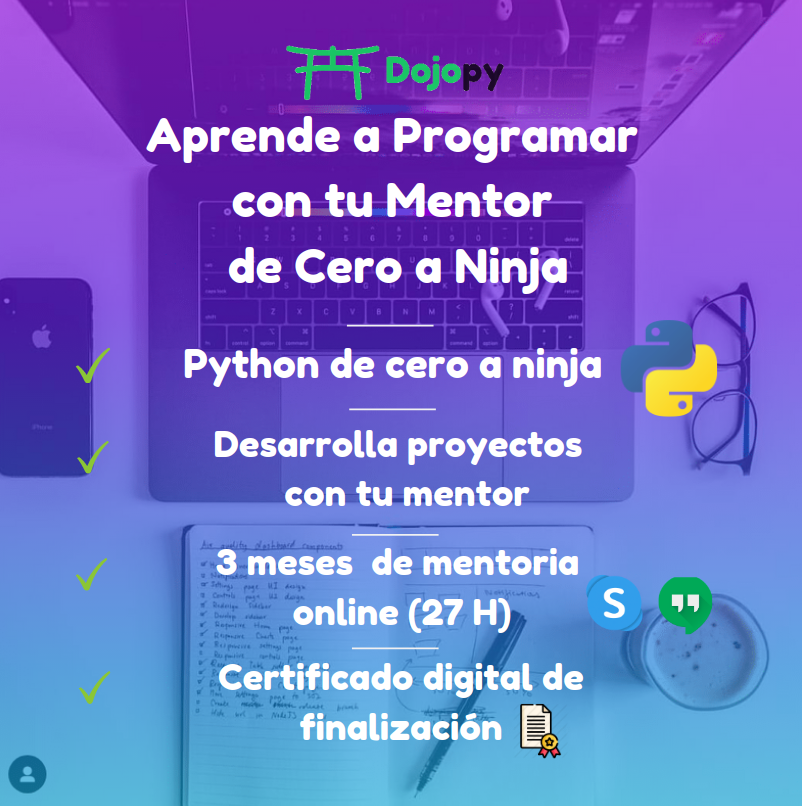
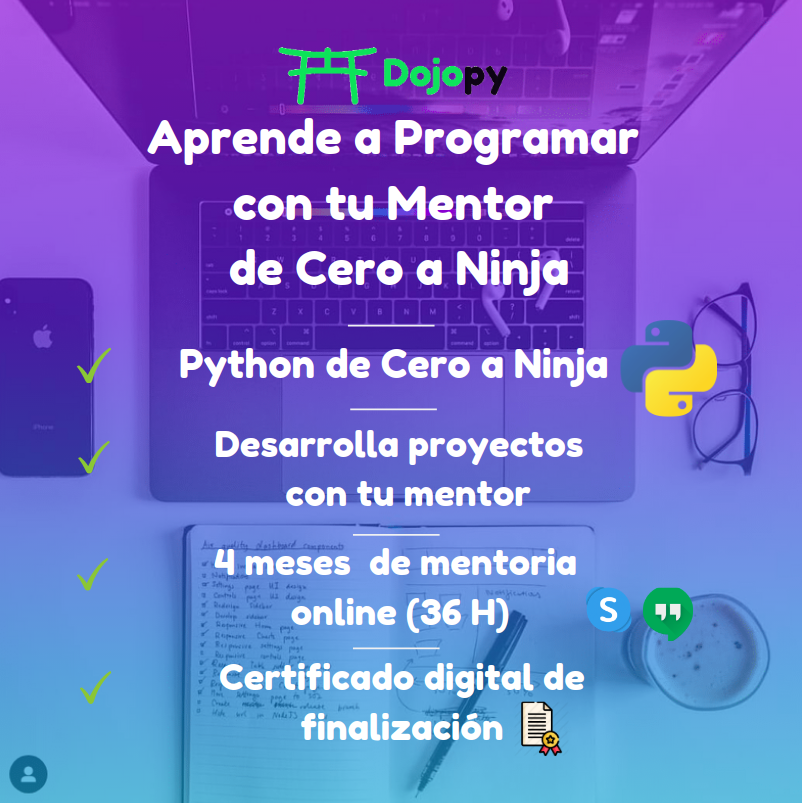
success

diff --git a/templates/taller_python.html b/templates/taller_python.html
@@ -120,9 +120,10 @@ Python es uno de los lenguajes de programación más valorados y usados a nivel 
                                                 <a href="#"><img src="/static/base/img/icon/color_star.svg" alt=""></a>
                                             </div>
 
-                                            <h3 class="title" style="font-size:1.6rem; padding:7px">Python de Cero a Ninja<br> <p style="text-align:center;font-size:1.3rem;color:#0c2e60">(3 meses)</p> </h3>
-
-                                            <h4 style="font-size:1.6rem; color:#31de79" > S/ 180.00 mensual</h4>
+                                            <h3 class="title" style="font-size:1.6rem; padding:7px">Python de Cero a Ninja<br> <p style="text-align:center;font-size:1.3rem;color:#0c2e60">(4 meses)</p> </h3>
+                                            <div class="col-11">
+                                            </div>
+                                            <h4 style="font-size:1.6rem; color:#31de79;font-weight:600" > S/ 170 mensual</h4>
                                             <div class="col-11">
                                             </div>
                                                 <h5 style="font-size:1.2rem" > (pagas mes a mes)</h5>
@@ -163,15 +164,15 @@ Python es uno de los lenguajes de programación más valorados y usados a nivel 
                                 <p style="font-size:1.1rem; margin:5px">Aprende desarrollando proyectos.</p>
                             </li>
                             <li>
-                                <p style="font-size:1.1rem; margin:5px">Acceso ilimitado a la plataforma de videos del 'Taller Python de Cero a Ninja' para complementar la mentoría.</p>
+                                <p style="font-size:1.1rem; margin:5px">Acceso ilimitado a la plataforma de recursos digitales y videos del 'Taller Python de Cero a Ninja' para complementar la mentoría.</p>
                             </li>
                             <li>
-                                <p style="font-size:1.1rem; margin:5px">3 meses de mentoría online en vivo: </p>
+                                <p style="font-size:1.1rem; margin:5px">4 meses de mentoría online en vivo: </p>
                                 <ul class="unordered-list">
                                     <li style="font-size:1.1rem;color:#888888"> sesiones de 1 hora </li>
                                     <li style="font-size:1.1rem;color:#888888"> 3 sesiones/semana </li>
                                     <li style="font-size:1.1rem;color:#888888"> 9 horas/mes </li>
-                                    <li style="font-size:1.1rem;color:#888888"> 27 horas en total invertidas.</li>
+                                    <li style="font-size:1.1rem;color:#888888"> 36 horas en total invertidas.</li>
                                 </ul>
                             </li>
 

diff --git a/templates/base.html b/templates/base.html
@@ -114,7 +114,7 @@
                                 <p style="font-size:1.2rem; color:#0c2e60"><i> Now is better than never</i> </p>
                                 <p style="font-size:1.2rem; color:#0c2e60"><i> - Zen Python</i> </p>
                             </b>
-                            <a style="font-size:1.1rem;" href="#connect" class="btn_1">Unete a Dojopy</a>
+                            <a style="font-size:1.1rem;" href="/mentor/python-de-cero-a-ninja" class="btn_1">Empieza Ahora</a>
 
                         </div>
                     </div>
@@ -268,12 +268,12 @@
                                             <a href="#"><img src="/static/base/img/icon/color_star.svg" alt=""></a>
                                         </div>
                                         <a href="/mentor/python-de-cero-a-ninja">
-                                            <h3 style="font-size:1.6rem">Python de Cero a Ninja<br> <p style="text-align:center;font-size:1.3rem;color:#0c2e60">(3 meses)</p> </h3>
+                                            <h3 style="font-size:1.6rem">Python de Cero a Ninja<br> <p style="text-align:center;font-size:1.3rem;color:#0c2e60">(4 meses)</p> </h3>
                                         </a>
 
                                     <div class="col-9">
                                     </div>
-                                    <h4 style="font-size:1.6rem; color:#31de79" > S/ 180.00 mensual</h4>
+                                    <h4 style="font-size:1.6rem; color:#31de79" > S/ 170 mensual</h4>
                                     <div class="col-11">
                                     </div>
                                         <h5 style="font-size:1.2rem" > (pagas mes a mes)</h5>

diff --git a/templates/checkout.html b/templates/checkout.html
@@ -34,12 +34,12 @@
                                                 <h6 class="my-0">Taller Python de Cero a Ninja</h6>
                                                 <small class="text-muted">Dojopy</small>
                                             </div>
-                                            <span style="color:#31de79" class="text-muted">S/ 180.00</span>
+                                            <span style="color:#31de79" class="text-muted">S/ 170</span>
                                         </li>
 
                                         <li class="list-group-item d-flex justify-content-between">
                                             <span>Total (SOLES)</span>
-                                            <strong style="font-size:1rem; color:#31de79">S/ 180.00</strong>
+                                            <strong style="font-size:1rem; color:#31de79">S/ 170</strong>
                                         </li>
                                     </ul>
 
@@ -174,7 +174,7 @@ function culqi() {
         title: "Taller Python de Cero a Ninja",
         currency: 'PEN',
         description: "Taller Python de Cero a Ninja",
-        amount: 180*100,
+        amount: 170*100,
         order: "{{tk_django}}",
     });
     $('#buyButton').on('click', function(e) {

diff --git a/startup/views.py b/startup/views.py
@@ -106,7 +106,7 @@ def checkout(request):
                 token_payment_gateway,
                 tk_django,
                 email,
-                180*100, # verificar! enviar en centimos
+                170*100, # verificar! enviar en centimos
                 'Taller Python de Cero a Ninja',
                 firstName,
                 lastName,
